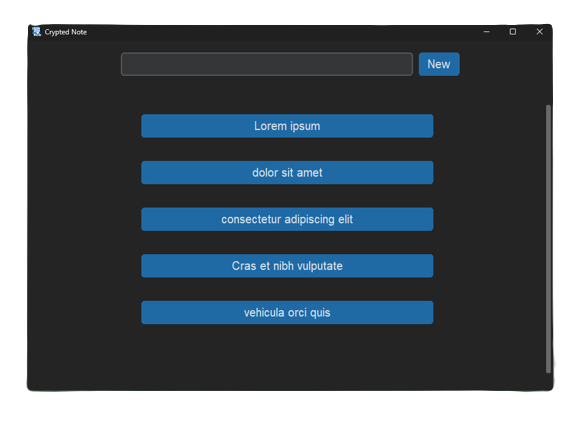
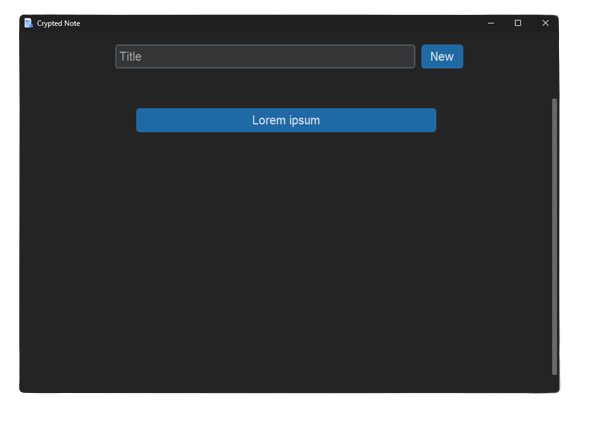
Modified app's images

diff --git a/windows/home.py b/windows/home.py
@@ -7,7 +7,7 @@ homeFrame = ctk.CTkFrame(root, fg_color="transparent")
 newNoteFormFrame = ctk.CTkFrame(homeFrame, fg_color="transparent")
 newNoteFormFrame.pack(pady=20)
 
-titleEntry = ctk.CTkEntry(newNoteFormFrame, width=500, height=40, font=("Helvetica", 20))
+titleEntry = ctk.CTkEntry(newNoteFormFrame, width=500, height=40, font=("Helvetica", 20), placeholder_text="Title")
 titleEntry.grid(row=0, column=0)
 
 newNoteButton = ctk.CTkButton(newNoteFormFrame,

diff --git a/windows/note.py b/windows/note.py
@@ -25,7 +25,7 @@ newTitleForm.grid(column=1, row=0, sticky=ctk.NW, pady=5)
 
 oldTitleVariable = ctk.StringVar()
 
-newTitleEntry = ctk.CTkEntry(newTitleForm, width=500, height=40, font=("Helvetica", 20))
+newTitleEntry = ctk.CTkEntry(newTitleForm, width=500, height=40, font=("Helvetica", 20), placeholder_text="New title")
 newTitleEntry.grid(row=0, column=0)
 
 newTitleButton = ctk.CTkButton(newTitleForm, 
